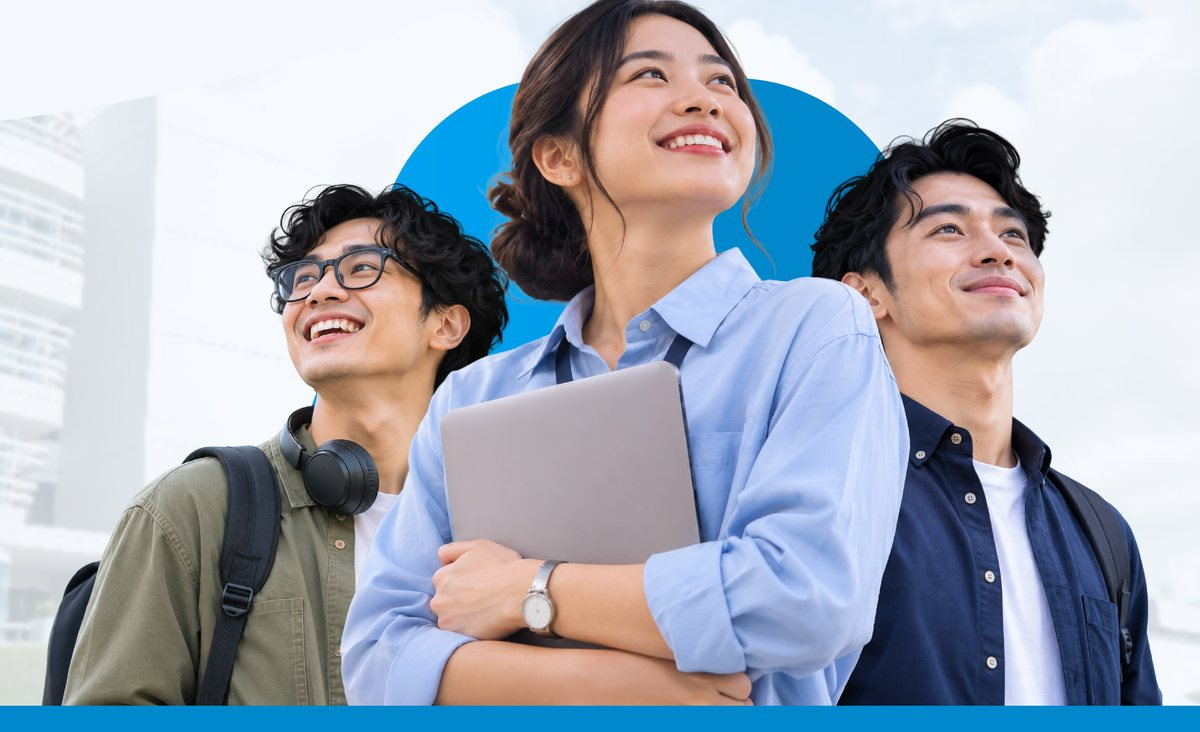
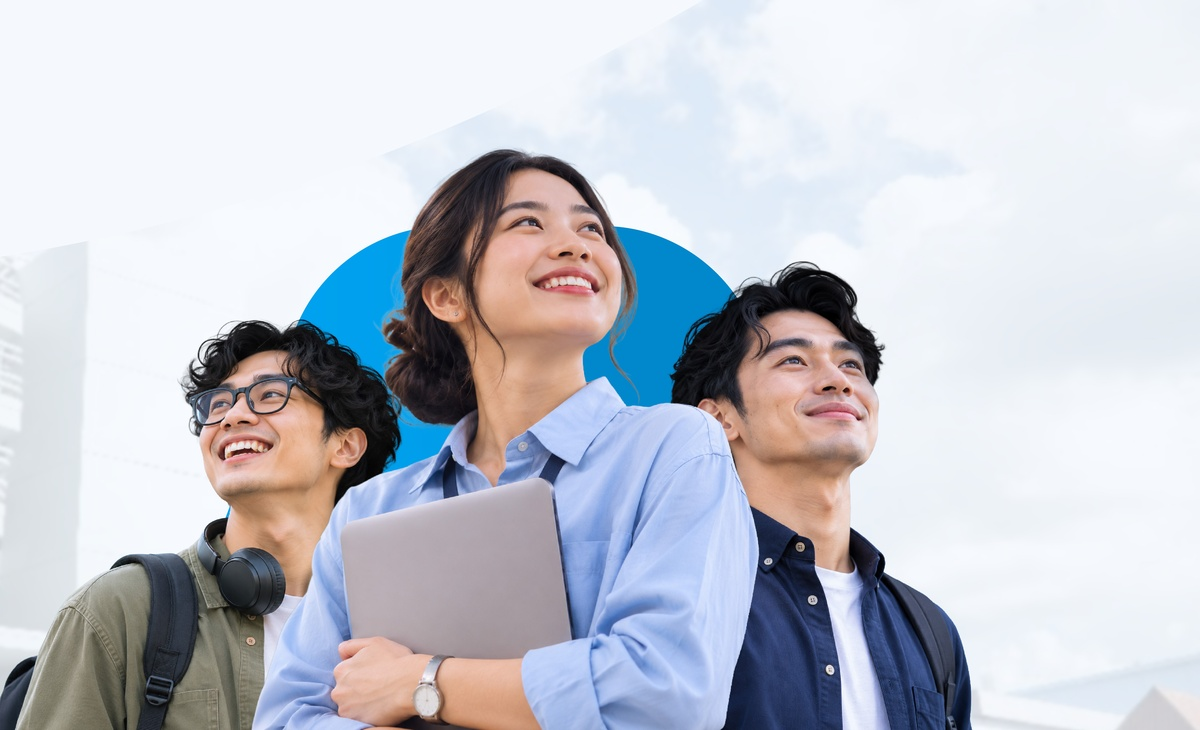
feat(ui): arrange mobile hero layout with photo above CTA buttons

diff --git a/src/app/page.tsx b/src/app/page.tsx
@@ -241,7 +241,7 @@ export default function HomePage() {
           />
         </div>
 
-        <div className="relative max-w-7xl mx-auto px-4 sm:px-6 lg:px-8 w-full my-auto z-10">
+        <div className="relative max-w-7xl mx-auto px-4 sm:px-6 lg:px-8 w-full my-auto z-10 pb-8 lg:pb-0">
           <div className="grid grid-cols-1 lg:grid-cols-12 gap-8 items-center">
             <div className="lg:col-span-6 space-y-6 text-left">
               <ScrollReveal direction="up" delayMs={60} durationMs={700}>
@@ -255,7 +255,16 @@ export default function HomePage() {
                   Ruang bagi seluruh alumni Sekolah Tinggi Multi Media untuk terhubung kembali, berbagi peluang, dan berkolaborasi di berbagai bidang.
                 </p>
 
-                <div className="pt-4 flex flex-col sm:flex-row items-stretch sm:items-center gap-3.5">
+                {/* HERO FOTO (HP & tablet): Ditata di atas tombol CTA */}
+                <div className="relative lg:hidden w-full mt-6 mb-6 overflow-hidden rounded-2xl shadow-sm border border-slate-100 pointer-events-none select-none">
+                  <img
+                    src="/landing_hero_mobile.jpg"
+                    alt="Komunitas Alumni STMM MMTC Yogyakarta"
+                    className="block w-full h-auto max-h-[380px] object-cover object-[50%_15%]"
+                  />
+                </div>
+
+                <div className="pt-2 lg:pt-4 flex flex-col sm:flex-row items-stretch sm:items-center gap-3.5">
                   <Link 
                     href="/open-to-work" 
                     className="inline-flex items-center justify-center gap-2 px-7 py-3.5 rounded-xl bg-[#0087cc] hover:bg-[#0077b5] text-white font-bold text-sm tracking-wide shadow-md shadow-[#0087cc]/25 hover:shadow-lg hover:shadow-[#0087cc]/30 transition-all duration-200 active:scale-[0.98]"
@@ -279,16 +288,6 @@ export default function HomePage() {
 
             <div className="lg:col-span-6 hidden lg:block min-h-[380px] pointer-events-none" />
           </div>
-        </div>
-
-        {/* HERO FOTO (HP & tablet): potongan foto alumni dengan dasar biru yang menyambung ke dock */}
-        <div className="relative lg:hidden w-full mt-6 sm:mt-8 pointer-events-none select-none">
-          <img
-            src="/landing_hero_mobile.jpg"
-            alt="Komunitas Alumni STMM MMTC Yogyakarta"
-            className="block w-full h-auto sm:h-[400px] md:h-[440px] sm:object-cover sm:object-[62%_100%]"
-          />
-          <div className="absolute inset-x-0 top-0 h-10 bg-gradient-to-b from-white to-transparent" />
         </div>
 
         {/* BOTTOM FEATURE DOCK: ikon & teks putih di atas dasar biru artwork */}
